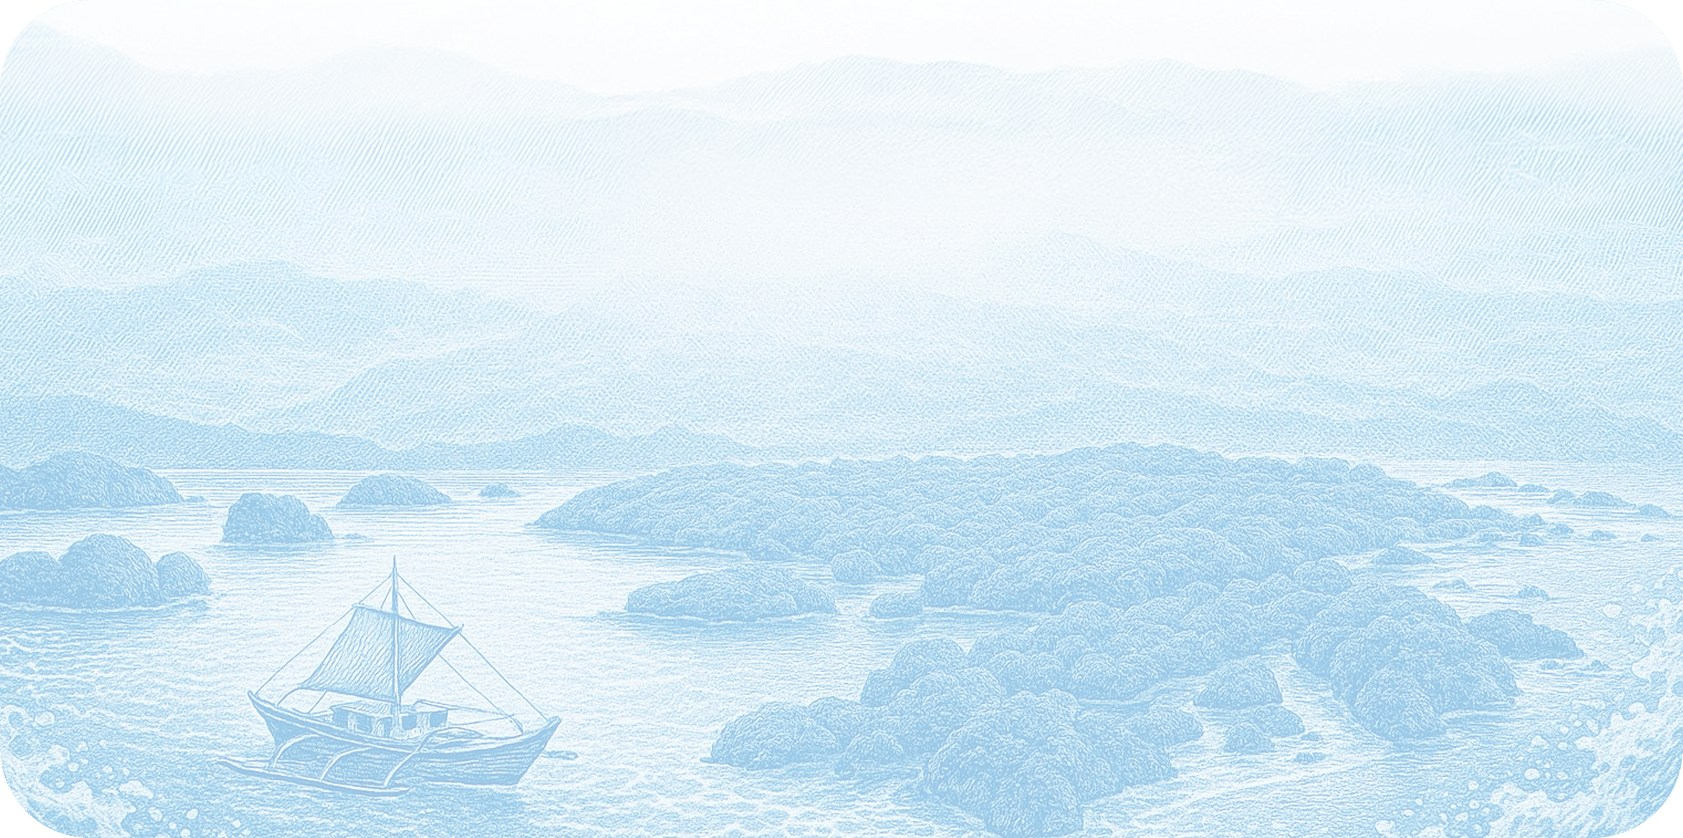
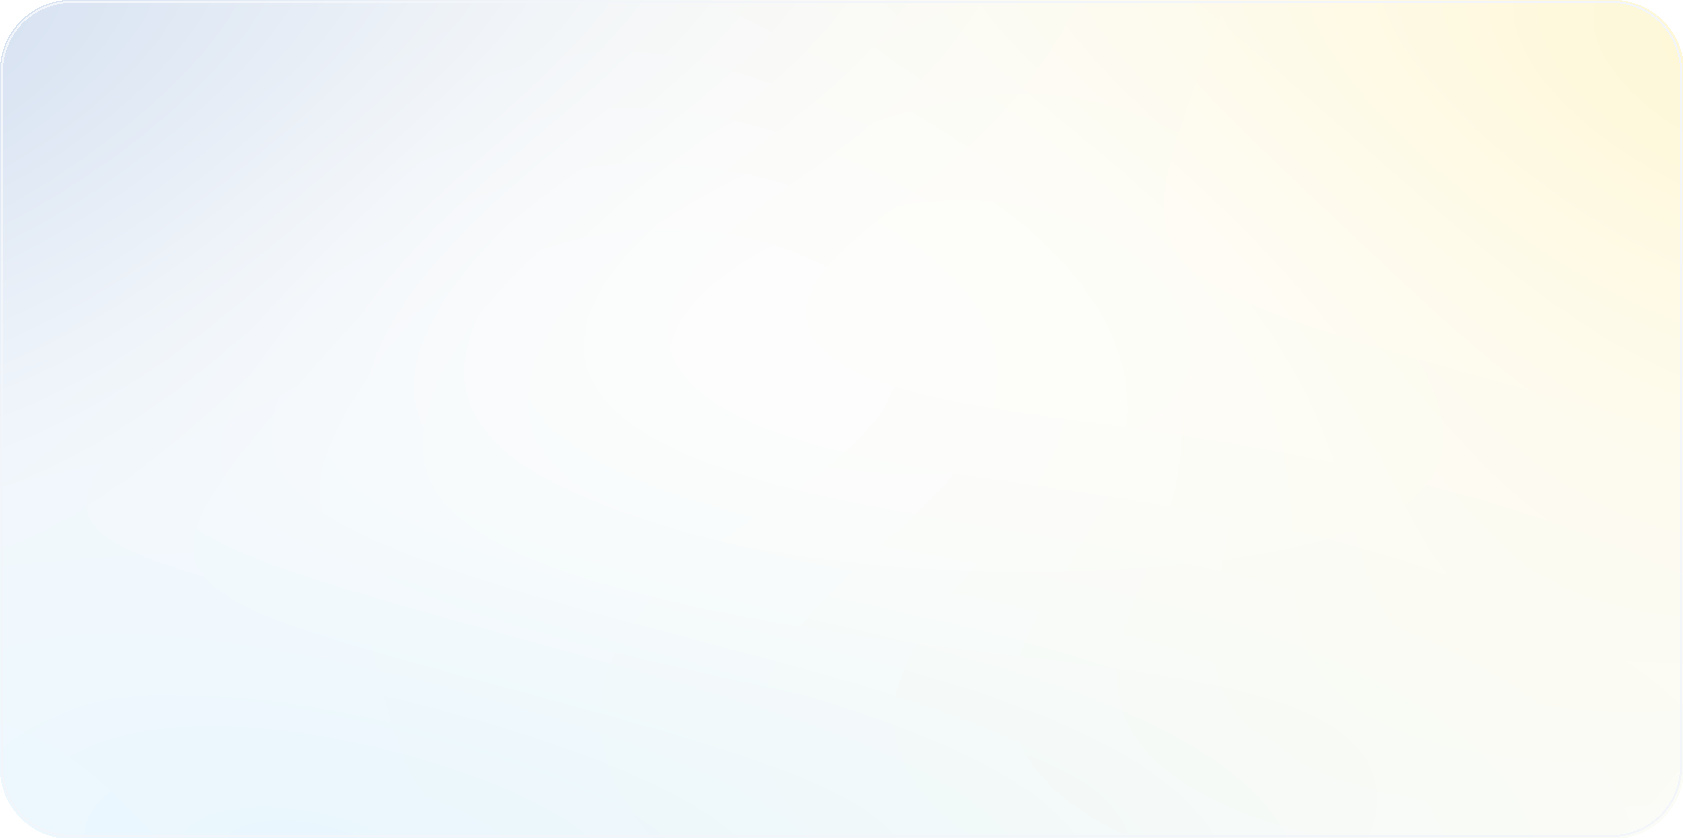
reset password updated

diff --git a/resources/js/pages/scanner.tsx b/resources/js/pages/scanner.tsx
@@ -8,6 +8,7 @@ import { type BreadcrumbItem } from '@/types';
 import { Head } from '@inertiajs/react';
 import jsQR from 'jsqr';
 import * as React from 'react';
+import QRCode from 'qrcode';
 
 import { Button } from '@/components/ui/button';
 import {
@@ -241,6 +242,7 @@ function ScannerIdCardPreview({
     participant: {
         name: string;
         display_id: string;
+        qr_payload?: string | null;
         profile_image_url?: string | null;
         is_verified?: boolean;
     };
@@ -249,6 +251,34 @@ function ScannerIdCardPreview({
     const isLandscape = orientation === 'landscape';
     const participantImageSrc =
         participant.profile_image_url ?? '/img/ched_logo.png';
+    const [qrDataUrl, setQrDataUrl] = React.useState<string | null>(null);
+
+    React.useEffect(() => {
+        let active = true;
+        const run = async () => {
+            const value = participant.qr_payload?.trim() ?? '';
+            if (!value) {
+                setQrDataUrl(null);
+                return;
+            }
+
+            try {
+                const url = await QRCode.toDataURL(value, {
+                    margin: 1,
+                    width: 240,
+                    errorCorrectionLevel: 'M',
+                });
+                if (active) setQrDataUrl(url);
+            } catch {
+                if (active) setQrDataUrl(null);
+            }
+        };
+
+        run();
+        return () => {
+            active = false;
+        };
+    }, [participant.qr_payload]);
 
     // ✅ keep accurate print size, but DON'T force fixed aspect height on screen
     const printSize = isLandscape
@@ -278,7 +308,7 @@ function ScannerIdCardPreview({
             {/* Background */}
             <div aria-hidden className="absolute inset-0">
                 <img
-                    src="/img/bg.png"
+                    src="/img/id-card-bg.jpg"
                     alt=""
                     className={cn(
                         'absolute inset-0 h-full w-full object-cover',
@@ -395,14 +425,6 @@ function ScannerIdCardPreview({
                                 />
                             </div>
 
-                            <div className="min-w-0">
-                                <div className="truncate text-[12px] font-semibold text-slate-900 dark:text-slate-100">
-                                    Participant Photo
-                                </div>
-                                <div className="text-[11px] font-medium text-slate-500 dark:text-slate-400">
-                                    {participant.display_id}
-                                </div>
-                            </div>
                         </div>
 
                         <div className={cn(isLandscape ? 'mt-2' : 'mt-3')}>
@@ -432,7 +454,7 @@ function ScannerIdCardPreview({
                         </div>
                     </div>
 
-                    {/* RIGHT PHOTO / VERIFIED */}
+                    {/* RIGHT QR */}
                     <div
                         className={cn(
                             'flex flex-col items-center justify-center rounded-3xl border border-slate-200/70 bg-white/80 shadow-sm backdrop-blur dark:border-white/10 dark:bg-slate-950/45',
@@ -441,24 +463,36 @@ function ScannerIdCardPreview({
                             !isLandscape && 'mt-auto',
                         )}
                     >
-                        <img
-                            src={
-                                participant.profile_image_url ??
-                                '/img/ched_logo.png'
-                            }
-                            alt={participant.name}
-                            className="rounded-2xl object-cover"
-                            style={{ width: qrSize, height: qrSize }}
-                            draggable={false}
-                            loading="lazy"
-                        />
+                        <div
+                            className={cn(
+                                'inline-flex items-center gap-1.5 font-semibold text-slate-700 dark:text-slate-200',
+                                isLandscape ? 'mb-1 text-[10px]' : 'mb-1.5 text-[11px]',
+                            )}
+                        >
+                            <QrCodeIcon className={cn(isLandscape ? 'h-3.5 w-3.5' : 'h-4 w-4')} />
+                            QR Code
+                        </div>
 
-                        {participant.is_verified !== false ? (
-                            <span className="mt-2 inline-flex items-center gap-1 rounded-full bg-emerald-600 px-2 py-1 text-[10px] font-semibold text-white shadow-sm">
-                                <ShieldCheck className="h-3 w-3" />
-                                Verified
-                            </span>
-                        ) : null}
+                        {qrDataUrl ? (
+                            <img
+                                src={qrDataUrl}
+                                alt="Participant QR code"
+                                className="rounded-2xl bg-white object-contain p-2"
+                                style={{ width: qrSize, height: qrSize }}
+                                draggable={false}
+                                loading="lazy"
+                            />
+                        ) : (
+                            <div
+                                className="flex flex-col items-center justify-center gap-2 rounded-2xl border border-slate-200/70 bg-white/60 text-center dark:border-white/10 dark:bg-slate-950/30"
+                                style={{ width: qrSize, height: qrSize }}
+                            >
+                                <QrCodeIcon className="h-7 w-7 text-slate-400" />
+                                <div className="text-[10px] font-medium text-slate-600 dark:text-slate-300">
+                                    QR unavailable
+                                </div>
+                            </div>
+                        )}
 
                         <div className="mt-2 w-full text-center">
                             <div
@@ -473,6 +507,9 @@ function ScannerIdCardPreview({
                                 >
                                     {participant.name}
                                 </span>
+                            </div>
+                            <div className="mt-1 font-mono break-words text-[10px] text-slate-500 dark:text-slate-400">
+                                {participant.display_id}
                             </div>
                         </div>
                     </div>
@@ -1459,6 +1496,7 @@ export default function Scanner(props: PageProps) {
                 code: p.country_code ?? null,
             },
             profile_image_url: p.profile_image_url ?? null,
+            qr_payload: p.qr_payload ?? null,
             is_verified: p.is_verified ?? true,
         };
     }, [participantDisplayId, result?.participant]);

diff --git a/resources/js/pages/participant-dashboard.tsx b/resources/js/pages/participant-dashboard.tsx
@@ -174,6 +174,7 @@ function IdCardPreview({
     orientation: 'portrait' | 'landscape';
 }) {
     const isLandscape = orientation === 'landscape';
+    const participantImageSrc = participant.profile_photo_url || '/img/ched_logo.png';
 
     // ✅ aspect ratio ONLY on sm+ (mobile uses natural height to avoid clipping)
     const aspect = isLandscape ? 'sm:aspect-[3.37/2.125]' : 'sm:aspect-[3.46/5.51]';
@@ -211,7 +212,7 @@ function IdCardPreview({
             {/* Background */}
             <div aria-hidden className="absolute inset-0">
                 <img
-                    src="/img/bg.png"
+                    src="/img/id-card-bg.jpg"
                     alt=""
                     className={cn(
                         'absolute inset-0 h-full w-full object-cover',
@@ -296,30 +297,15 @@ function IdCardPreview({
                                     'h-8 w-8 sm:h-9 sm:w-9',
                                 )}
                             >
-                                {flagSrc ? (
-                                    <img
-                                        src={flagSrc}
-                                        alt={participant.country?.name ?? 'Country flag'}
-                                        className="h-full w-full object-cover"
-                                        draggable={false}
-                                        loading="lazy"
-                                        onError={(e) => {
-                                            (e.currentTarget as HTMLImageElement).style.display = 'none';
-                                        }}
-                                    />
-                                ) : null}
+                                <img
+                                    src={participantImageSrc}
+                                    alt="Participant"
+                                    className="h-full w-full object-cover"
+                                    draggable={false}
+                                    loading="lazy"
+                                />
                             </div>
 
-                            <div className="min-w-0">
-                                <div className="truncate text-[12px] font-semibold text-slate-900 dark:text-slate-100">
-                                    {participant.country?.name ?? '—'}
-                                </div>
-                                {participant.country?.code ? (
-                                    <div className="text-[11px] font-medium text-slate-500 dark:text-slate-400">
-                                        {participant.country.code.toUpperCase()}
-                                    </div>
-                                ) : null}
-                            </div>
                         </div>
 
                         <div className={cn(isLandscape ? 'mt-1.5 sm:mt-2' : 'mt-2 sm:mt-3')}>
@@ -385,9 +371,7 @@ function IdCardPreview({
 
                         <div className="mt-2 w-full text-center">
                             <div className={cn('font-semibold text-slate-900 dark:text-slate-100', isLandscape ? 'text-[10px]' : 'text-[11px]')}>
-                                <span className="line-clamp-2" title={`${participant.country?.code?.toUpperCase() ?? ''} • ${participant.name}`}>
-                                    {participant.country?.code?.toUpperCase() ?? ''}
-                                    {participant.country?.code ? ' • ' : ''}
+                                <span className="line-clamp-2" title={participant.name}>
                                     {participant.name}
                                 </span>
                             </div>
@@ -631,7 +615,7 @@ export default function ParticipantDashboard({ participant }: PageProps) {
                     <Card className="overflow-hidden rounded-3xl border-slate-200/70 bg-white/70 shadow-sm backdrop-blur dark:border-white/10 dark:bg-slate-900/40">
                         <div className="relative">
                             <img
-                                src="/img/bg.png"
+                                src="/img/id-card-bg.jpg"
                                 alt=""
                                 className="absolute inset-0 h-full w-full object-cover opacity-25 dark:opacity-20"
                                 draggable={false}

diff --git a/resources/js/pages/participant.tsx b/resources/js/pages/participant.tsx
@@ -1004,7 +1004,7 @@ function ParticipantIdPrintCard({
                                     : 'opacity-100 dark:opacity-30',
                             )}
                             style={{
-                                backgroundImage: "url('/img/bg.png')",
+                                backgroundImage: "url('/img/id-card-bg.jpg')",
                                 backgroundPosition: 'center',
                                 backgroundSize: 'cover',
                             }}
@@ -1123,29 +1123,6 @@ function ParticipantIdPrintCard({
                                         />
                                     </div>
 
-                                    <div className="min-w-0">
-                                        <div
-                                            className={cn(
-                                                'truncate font-semibold text-slate-900 dark:text-slate-100',
-                                                isLandscape
-                                                    ? 'text-[18px]'
-                                                    : 'text-[12px]',
-                                            )}
-                                        >
-                                            Participant Photo
-                                        </div>
-
-                                        <div
-                                            className={cn(
-                                                'font-medium text-slate-500 dark:text-slate-400',
-                                                isLandscape
-                                                    ? 'text-[15px]'
-                                                    : 'text-[11px]',
-                                            )}
-                                        >
-                                            {displayId}
-                                        </div>
-                                    </div>
                                 </div>
 
                                 <div

diff --git a/resources/js/pages/vehicle-assignment.tsx b/resources/js/pages/vehicle-assignment.tsx
@@ -248,7 +248,7 @@ function VirtualLandscapeId({ participant }: { participant: Participant }) {
                     <div className="relative h-full w-full overflow-hidden rounded-3xl border border-slate-200/70 bg-white shadow-sm dark:border-white/10 dark:bg-slate-950">
                         <div aria-hidden className="absolute inset-0">
                             <img
-                                src="/img/bg.png"
+                                src="/img/id-card-bg.jpg"
                                 alt=""
                                 className="absolute inset-0 h-full w-full object-cover opacity-100 brightness-80 contrast-150 saturate-200 filter dark:opacity-35 dark:brightness-80 dark:contrast-110"
                                 draggable={false}
@@ -308,14 +308,6 @@ function VirtualLandscapeId({ participant }: { participant: Participant }) {
                                                 alt="Participant"
                                                 className="h-full w-full object-cover"
                                             />
-                                        </div>
-                                        <div className="min-w-0">
-                                            <div className="truncate text-[14px] leading-4 font-semibold text-slate-900 dark:text-slate-100">
-                                                Participant Photo
-                                            </div>
-                                            <div className="mt-0.5 text-[12px] leading-4 text-slate-500 dark:text-slate-300">
-                                                {displayId}
-                                            </div>
                                         </div>
                                     </div>
 

diff --git a/app/Http/Controllers/ParticipantController.php b/app/Http/Controllers/ParticipantController.php
@@ -18,6 +18,7 @@ use Illuminate\Http\Request;
 use Illuminate\Http\UploadedFile;
 use Illuminate\Support\Facades\DB;
 use Illuminate\Support\Facades\File;
+use Illuminate\Support\Facades\Hash;
 use Illuminate\Support\Facades\Validator;
 use Illuminate\Support\Str;
 use Illuminate\Validation\Rule;
@@ -751,7 +752,7 @@ class ParticipantController extends Controller
         }
 
         if (array_key_exists('password', $validated) && $validated['password'] !== null) {
-            $updates['password'] = $validated['password'];
+            $updates['password'] = Hash::make($validated['password']);
         }
 
         $participant->update($updates);
@@ -975,7 +976,6 @@ class ParticipantController extends Controller
         $pdf->line($x + $pad, $top - $pad - 29, $x + $width - $pad, $top - $pad - 29);
 
         $name = $this->pdfText((string) $participant['name']);
-        $type = $this->pdfText((string) $participant['type_name']);
         $displayId = $this->pdfText((string) $participant['display_id']);
         $qrPayload = (string) ($participant['qr_payload'] ?? $participant['display_id']);
         $photoPath = $participant['photo_path'] ?? null;
@@ -1001,14 +1001,8 @@ class ParticipantController extends Controller
             if ($photoPath) {
                 $this->drawClippedImage($pdf, $photoPath, $x + $pad, $detailsY - 30.0, $photoSize, $photoSize, 7.0);
             }
-            $detailX = $photoPath ? $x + $pad + $photoSize + 7.0 : $x + $pad;
-            $detailLimit = $leftLimit - ($photoPath ? $photoSize + 7.0 : 0.0);
-            if ($type !== '') {
-                $this->drawText($pdf, $this->limitPdfText($type, $this->charsForWidth($detailLimit, 8.0)), $detailX, $detailsY - 1.0, 8.0, [0.12, 0.18, 0.27]);
-            }
-
-            $idLabelX = $photoPath ? $detailX : $x + $pad;
-            $idLabelLimit = $photoPath ? $detailLimit : $leftLimit;
+            $idLabelX = $x + $pad;
+            $idLabelLimit = $leftLimit;
             $this->drawText($pdf, $this->limitPdfText('PARTICIPANT ID', $this->charsForWidth($idLabelLimit, 5.5)), $idLabelX, $y + 29.0, 5.5, [0.39, 0.46, 0.57]);
             $idText = $this->limitPdfText($displayId, $this->charsForWidth($leftLimit - 12.0, 6.8));
             $idWidth = min($leftLimit, max(58.0, strlen($idText) * 4.5 + 12.0));
@@ -1036,11 +1030,6 @@ class ParticipantController extends Controller
         $photoSize = 42.0;
         if ($photoPath) {
             $this->drawClippedImage($pdf, $photoPath, $x + $pad, $detailsY - 32.0, $photoSize, $photoSize, 8.0);
-        }
-        $detailX = $photoPath ? $x + $pad + $photoSize + 8.0 : $x + $pad;
-        $detailLimit = $leftLimit - ($photoPath ? $photoSize + 8.0 : 0.0);
-        if ($type !== '') {
-            $this->drawText($pdf, $this->limitPdfText($type, $this->charsForWidth($detailLimit, 10.8)), $detailX, $detailsY, 10.8, [0.12, 0.18, 0.27]);
         }
         $idY = $detailsY - 64.0;
         $this->drawText($pdf, 'PARTICIPANT ID', $x + $pad, $idY + 24.0, 6.5, [0.39, 0.46, 0.57]);

diff --git a/tests/Feature/ParticipantManagementTest.php b/tests/Feature/ParticipantManagementTest.php
@@ -8,6 +8,7 @@ use App\Models\RegistrationField;
 use App\Models\User;
 use App\Models\UserType;
 use Illuminate\Foundation\Testing\RefreshDatabase;
+use Illuminate\Support\Facades\Hash;
 use Inertia\Testing\AssertableInertia as Assert;
 
 uses(RefreshDatabase::class);
@@ -322,6 +323,29 @@ test('participant update upserts and deletes dynamic registration responses', fu
     expect($participant->registrationFieldResponses()
         ->where('registration_field_id', $field->id)
         ->exists())->toBeFalse();
+});
+
+test('participant password reset stores the default password as a hash', function () {
+    $admin = adminUser();
+    [$country, $participantType] = participantFixture();
+
+    $participant = User::factory()->create([
+        'name' => 'Existing Participant',
+        'country_id' => $country->id,
+        'user_type_id' => $participantType->id,
+        'password' => 'old-password',
+    ]);
+
+    $this->actingAs($admin)
+        ->patch(route('participants.update', $participant), [
+            'password' => 'chedevents2026',
+        ])
+        ->assertRedirect();
+
+    $participant->refresh();
+
+    expect($participant->password)->not->toBe('chedevents2026');
+    expect(Hash::check('chedevents2026', $participant->password))->toBeTrue();
 });
 
 test('dynamic registration responses are validated for required fields and option types', function () {
